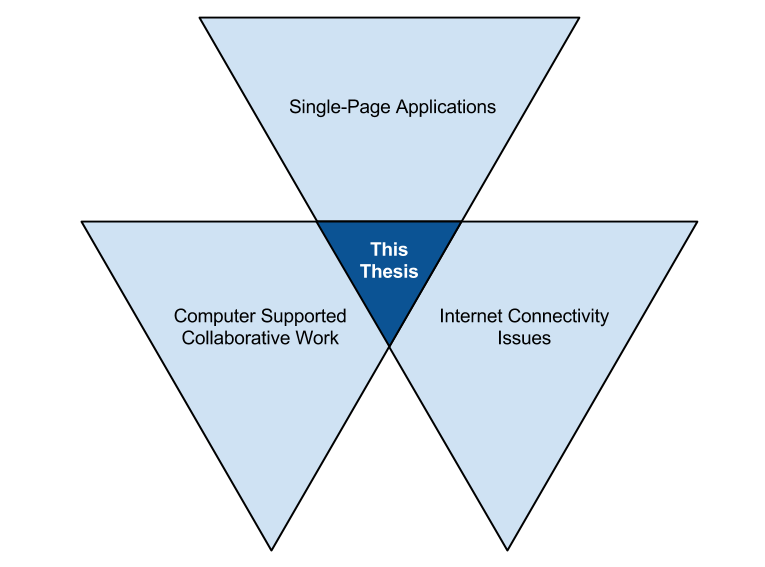
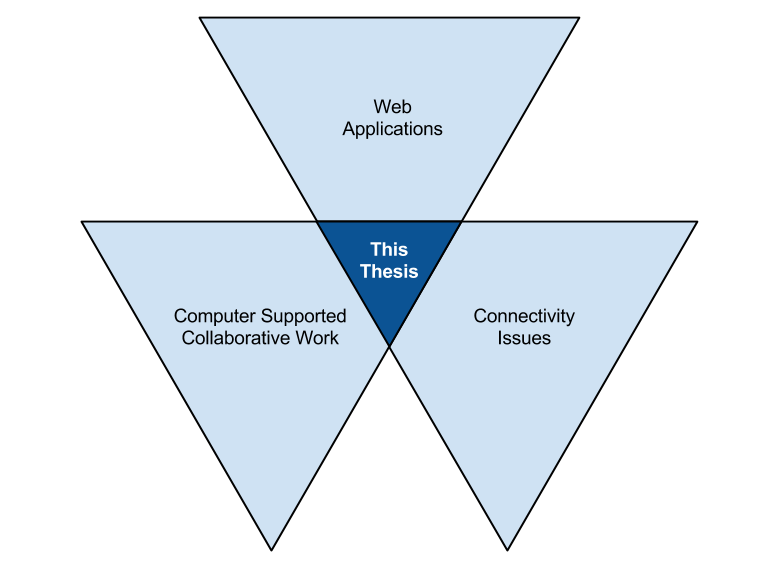
Separate SPA section into own subsection, introduce Web Applications section

Changed region(s): [[0.3608, 0.1799, 0.6614, 0.2399], [0.5712, 0.5397, 0.8118, 0.5697]]

diff --git a/chapters/c_background.tex b/chapters/c_background.tex
@@ -3,25 +3,32 @@
 
 On this chapter the three prime themes around this thesis are introduced. Basic knowledge of these themes are required in order to fully comprehend all the aspects on the case study investigated on this thesis later on. 
 
-The basics of \textit{single-page application} paradigm is introduced as it is the method how the web application is built on the case study. The concept of \textit{computer supported collaborative work} is introduced since the case study's application is essentially that: multiple users collaboratively viewing and editing the same data set. The most usual types of \textit{Internet connectivity issues} and the reasons for them are portrayed, since the disruption created by them to the case study's application created the actual need for offline supported functionalities in the first place. 
+The basics of \textit{web as an application platform} and more precisely the \textit{single-page application} paradigm is introduced as it is the method how the web application is built on the case study. The concept of \textit{computer supported collaborative work} is introduced since the case study's application is essentially that: multiple users collaboratively viewing and editing the same data set. The most usual types of \textit{connectivity issues} and the reasons for them are portrayed, since the disruption created by them to the case study's application created the actual need for offline supported functionalities in the first place. 
 
 
 
 
 %% ----------------------------------
-\section{Single-Page Applications}
-\label{sec:spa}
+\section{Web Applications}
+
+In the past decade the software industry as a whole has been facing a major paradigm shift on the way how and where applications are developed and operated. Progress in web technologies and standards have made possible for the browser environment to be a more and more powerful but still universal computing platform. Software applications that were previously build for different kind of operating system and CPU combinations are now written with web technologies and ran on the browser. This change is mainly accomplished by the power of distribution the web platform provides. Software provider or the organization's IT function does not have to take care of updating end user software to the latest version anymore, because the client-server paradigm\cite{berson_client-server_1992} makes running outdated software version virtually impossible. In a traditional desktop application patching the software to fix bugs or introducing a new feature requires downloading a installer or a patcher and then it must be ran on the computer. This requires action from the user or from the IT function. This might not cover the whole upgrading process in every situation: sometimes updating dependent libraries or operating system might be required. It also enables possibility for different computers to be running different versions of the software, creating circumstances for version mismatches between different clients. \cite{jazayeri_trends_????} \cite{taivalsaari_mashware:_2009} %[jazayeri 3.3] [taivalsaari_mashware:_2009]
+
+The move from individual installations to a centralized reverses the general model how software is operated since the start of the personal computing revolution \cite[Chapter 3.3]{jazayeri_trends_????}. As stated above, this comes with many benefits. One of the most important ones is the (almost) unified platform provided for the developers. Thanks to automatic update mechanisms of the modern browsers, this platform is one of the fastest updating ones there is when it comes to speed of patches applied to end users' computers \cite{duebendorfer_why_2009}. Due to the easiness of the deployment process, it is not unusual to see web application rolling in releases to production on daily or even on hourly basis \cite[Chapter 3.3]{jazayeri_trends_????}.
+
+
+
+% ###
+\subsection{Single-Page Applications}
+\label{subsec:spa}
 % - yleisesti tuotantojavaskriptistä, yks yhdistetty&minimifoitu .js-möykky tuotannossa (tähän viittaan implementaatio-osuudessa)?
 % - AMD-moduulin avaus?
 
 
-In the past decade the software industry as a whole has been facing a major paradigm shift on the way how and where applications are developed and operated. Progress in web technologies and standards have made possible for the browser environment to be a more and more powerful but still universal computing platform. Software applications that were previously build for different kind of operating system and CPU combinations are now written with web technologies and ran on the browser. This change is mainly accomplished by the power of distribution the web platform provides. Software provider or the organization's IT function does not have to take care of updating end user software to the latest version anymore, because the client-server paradigm\cite{berson_client-server_1992} makes running outdated software version virtually impossible. In a traditional desktop application patching the software to fix bugs or introducing a new feature requires downloading a installer or a patcher and then it must be ran on the computer. This requires action from the user or from the IT function. This might not cover the whole upgrading process in every situation: sometimes updating dependent libraries or operating system might be required. It also enables possibility for different computers to be running different versions of the software, creating circumstances for version mismatches between different clients. \cite{jazayeri_trends_????} \cite{taivalsaari_mashware:_2009} %[jazayeri 3.3] [taivalsaari_mashware:_2009]
+Executing complicated applications on the web platform has been made possible by the evolution of the web pages from ``classic'', static presentation consisting of single pages to a more interactive and collaborative web applications. On the early phases of World Wide Web user navigated through hyperlinks within single pages each of them being formed and served by the server. Client, the browser, was responsible only for rendering the response of the server. \cite{taivalsaari_mashware:_2009} The current state of technology allows more of the functionality to be moved or duplicated from the server to the client. When before web pages on the browser were stateless, and the state transforms were done while moving to a new page, now it is possible for the browser to handle the state transitions and retrieve only the needed data from the server when required via AJAX\footnote{Asynchronous JavaScript + XML}-requests. \cite{paulson_building_2005}
 
-The move from individual installations to a centralized reverses the general model how software is operated since the start of the personal computing revolution \cite[Chapter 3.3]{jazayeri_trends_????}. As stated above, this comes with many benefits. One of the most important ones is the (almost) unified platform provided for the developers. Thanks to automatic update mechanisms of the modern browsers, this platform is one of the fastest updating ones there is when it comes to speed of patches applied to end user computers \cite{duebendorfer_why_2009}. Due to the easiness of the deployment process, it is not unusual to see web application rolling in releases to production on daily or even on hourly basis \cite[Chapter 3.3]{jazayeri_trends_????}.
+The applications following the paradigm described above can be generalized to be \textit{single-page applications}. These kind of web applications makes a request to the server, and based on the data of the server's response, they form the layout of the page manipulating the browser's \textit{Document Object Model} in real time. This is contrary to the traditional paradigm where based on the client's request the server creates the layout for the data and sends an whole HTML page as a response, and the whole page is refreshed in result. This is also the etymology behind the name of the paradigm: there is no need for user to navigate away from the page, even when the views on the application change.
 
-Executing complicated applications on the web platform has been made possible by the evolution of the web pages from "classic", static presentation consisting of single pages to an interactive and collaborative web applications. On the early phases of World Wide Web user navigated through hyperlinks within single pages each of them being formed and served by the server. Client, the browser, was responsible only for rendering the response of the server. \cite{taivalsaari_mashware:_2009} The current state of technology allows more of the functionality to be moved or duplicated from the server to the client. When before web pages on the browser were stateless, and the state transforms were done while moving to a new page, now it is possible for the browser to handle the state transitions and retrieve only the needed data from the server when required via AJAX\footnote{Asynchronous JavaScript + XML}-requests. \cite{paulson_building_2005}
-
-The application state handling on the browser environment and the increased amount of possibilities on the browser creates the basis for modern web development and the platform for the offline feature: the single-page application. Single-page application is tightly relevant to other hype terms such as Web 2.0 and the nowadays partly old-fashioned term DHTML. All single-page applications could be called Web 2.0 applications, but not all Web 2.0 applications are single-page applications. Whereas traditional web pages where synchronously fetched and generated by the web server, single-page application relies on asynchronous pattern on data fetching. \cite{garrett_ajax:_2005} With the asynchronous pattern the browser can fetch resources on smaller chunks when the need arises, usually through REST APIs \cite{masse_rest_2011}. This also makes possible the premise for an \textit{occasionally connected application}, meaning that the web application can function without having a continuous Internet connection \cite{casario_html5_2011}. The application has the ability to fetch data from the API when there is connectivity, and when the connectivity disappears it can function with application logic downloaded to the browser.  This widens a lot the range of use cases which can be covered by web applications.
+The application state handling on the browser environment and the increased amount of possibilities on the browser creates the basis for modern web development and the platform for the offline feature: the single-page application. Single-page application is tightly relevant to other hype terms such as \textit{Web 2.0} and the nowadays partly old-fashioned term \textit{DHTML}\footnote{Dynamic HTML}. All single-page applications could be called Web 2.0 applications, but not all Web 2.0 applications are single-page applications. Whereas traditional web pages where synchronously fetched and generated by the web server, single-page application relies on asynchronous pattern on data fetching. \cite{garrett_ajax:_2005} With the asynchronous pattern the browser can fetch resources on smaller chunks when the need arises, usually through REST APIs \cite{masse_rest_2011}. This also makes possible the premise for an \textit{occasionally connected application}, meaning that the web application can function without having a continuous Internet connection \cite{casario_html5_2011}. The application has the ability to fetch data from the API when there is connectivity, and when the connectivity disappears it can function with application logic downloaded to the browser.  This widens a lot the range of use cases which can be covered by web applications.
 
 
 
@@ -114,7 +121,7 @@ The real-life case study of this thesis is essentially an application which prov
 
 
 %% ----------------------------------
-\section{Internet Connectivity Issues}
+\section{Connectivity Issues}
 % vai pelkkä "Internet Connectivity"?
 % http://dl.acm.org/citation.cfm?id=2307649 ?
  % - eri tavat yhdistää internetiin (piuhayhteys, wlan, mobiilidata)
@@ -128,11 +135,11 @@ The real-life case study of this thesis is essentially an application which prov
 % Minkälaisia offline ratkaisuja on olemassa web/känny-puolella (miten google/microsoft yms. ovat lähestyneet ongelmaa)?
 % % onko muita kenttäkokeita tehty offline-moodiin liittyen??
 
-For a single-page application introduced in the Section~\ref{sec:spa} it is possible to work without connection to the outside world, in case the application code is delivered to the device via some medium. For example to a spreadsheet application this might be a highly feasible idea. However to applications which interacts with the surrounding world some kind of connectivity is required in order to spare the person using the system having to input all the data into it. When it comes to CSCW applications, where one of the key points is the \textit{collaboration}, at least occasional Internet connectivity is mandatory. This makes issues on the Internet connectivity status and quality to concern closely CSCW applications. % HOX tää vois toisaalta olla myös ton research gapin rojua? 
+For a single-page application it is possible to work without connection to the outside world, in case the application code is delivered to the device via some medium. For example to a spreadsheet application this might be a highly feasible idea. However to applications which interacts with the surrounding world some kind of connectivity is required in order to spare the person using the system having to input all the data into it. When it comes to CSCW applications, where one of the key points is the \textit{collaboration}, at least occasional Internet connectivity is mandatory. This makes issues on the Internet connectivity status and quality to concern closely CSCW applications. % HOX tää vois toisaalta olla myös ton research gapin rojua? 
 
 On many of the scenarios and application areas where CSCW is applied using desktop computers is challenging or impossible. Often the usage is outlined to the smartphone or/and tablet usage just by the requirement of having the access to the system with the users on all occasions. If the information needs to be accessed immediately on the fly, importable devices are out of the question.
 
-For mobile devices the medium for the "last mile"\footnote{Metaphor used in telecommunication industry when referring to the part of the network that reaches the customer. When looking from the customer's perspective it can be named as the "first mile."} of connecting to the Internet is wirelessly over the radiowaves using cellular network. As more and more of the usage of the Internet moves to the mobile devices, the unprecedented cellular traffic growth can easily exceed the deployment speed of cellular infrastructures \cite{qian_web_2012}. This results in a certain \textit{guaranteed unreliability} to the connections of devices using the mobile broadband as their primary method of reaching the Internet. For the time being applications where the possibility of continuous usage is critical bracing oneself to the possible temporary Internet outages is one of the factors which must be taken into account.
+For mobile devices the medium for the ``last mile''\footnote{Metaphor used in telecommunication industry when referring to the part of the network that reaches the customer. When looking from the customer's perspective it can be named as the ``first mile.''} of connecting to the Internet is wirelessly over the radiowaves using cellular network. As more and more of the usage of the Internet moves to the mobile devices, the unprecedented cellular traffic growth can easily exceed the deployment speed of cellular infrastructures \cite{qian_web_2012}. This results in a certain \textit{guaranteed unreliability} to the connections of devices using the mobile broadband as their primary method of reaching the Internet. For the time being applications where the possibility of continuous usage is critical bracing oneself to the possible temporary Internet outages is one of the factors which must be taken into account.
 
 One possible solution in overtaking the problems caused by the excess load of cellular networks is to use Wireless LANs as the last mile. With correct configuration this makes the wireless access as reliable as is the Internet connection of the WLAN's base station. However it is not exceptional for a CSCW system to be operated on various locations, resulting in a situation where sometimes usage of cellular network is mandatory. For applications where the SLAs\footnote{Service Level Agreement} are strict and system is used from various locations this method does not deliver any relief.
 
@@ -160,7 +167,7 @@ This thesis studies the issues on the Internet connectivity only from the applic
 \label{fig:researchgap}
 \end{figure}
 
-This thesis studies the overlap of the themes previously introduced in this chapter, as can be seen on the visualization on the Figure~\ref{fig:researchgap}. This thesis studies what is required from a \textit{single-page application} which enables \textit{computer supported collaborative work} for the users on a environment where \textit{issues with the Internet connectivity} happens regularly. 
+This thesis studies the overlap of the themes previously introduced in this chapter, as can be seen on the visualization in Figure~\ref{fig:researchgap}. This thesis studies what is required from a \textit{single-page application} which enables \textit{computer supported collaborative work} for the users on a environment where \textit{issues with the Internet connectivity} happens regularly. 
 
 CSCW has been studied widely for over the past two decades. The need for streamlining working methods in favor more productivity makes efficient will make applications enabling it only more essential and common.  
 

diff --git a/chapters/c_implementation.tex b/chapters/c_implementation.tex
@@ -246,7 +246,7 @@ After the application has entered the Offline mode, it halts all the Ajax reques
 
 %% TODO VIITE TÄNNE LÖYTYY ZOTEROSTA
 
-The new HTML5 standard adds also another important tool for the Päikky's offline support to take benefit from: the \textit{Local Storage}. It is an origin specific storage which saves its contents to the user's file system and persists them between sessions. While being only a simple key-value -storage it is not the most sophisticated solution for client-side storage mechanisms there is available on the modern web development toolbox, but for simple use cases like the Kindergarten UI its simplicity is a decisive advantage.
+The new HTML5 standard adds also another important tool for the Päikky's offline support to take benefit from: the \textit{Local Storage}\cite{w3.org_web_????}. It is an origin specific storage which saves its contents to the user's file system and persists them between sessions. While being only a simple key-value -storage it is not the most sophisticated solution for client-side storage mechanisms there is available on the modern web development toolbox, but for simple use cases like the Kindergarten UI its simplicity is a decisive advantage.
 
 While being on the Online mode, every request made by Kindergarten UI to the backend's API is stored to the Local Storage. The request's URL is used as the key for the entry, and the response of request is saved as a value for that key. At the current version of the application there are no optimization mechanisms implemented with the Local Storage content. When Internet connection is available the saved responses are ignored. On each request the possibly already existing responses are overwritten.
 

diff --git a/chapters/c_case.tex b/chapters/c_case.tex
@@ -64,7 +64,7 @@ Based on the plans done by parents on the \textit{Family UI}, nurses can see how
 
 As stated above, the attendance of nurses can also be tracked with the Kindergarten UI. With the \textit{Manager UI} it is also possible to plan shifts for the nurses. Combined with the planned attendance data of children done by the parents, this makes Päikky a powerful tool for organizing the kindergarten's daily schedule and ensuring that there are always enough nurses present to take care on the children. This is important since required nurses/children ratio is dictated by law in Finland. % IMPR tarttisko tähän lakiviitteen?
 
-From technical point of view looking the Kindergarten UI is a single-page web application (introduced on the Section~\ref{sec:spa}) created to be used primarily with mobile devices. The libraries the application consists of are: %
+From technical point of view looking the Kindergarten UI is a single-page web application (introduced in Subsection~\ref{subsec:spa}) created to be used primarily with mobile devices. The libraries the application consists of are: %
 
 \begin{enumerate}
 	\item \textit{Backbone}\footnote{\href{http://backbonejs.org/}{http://backbonejs.org/}}, \textit{Model-View-Template} –framework providing the skeleton for the application,
